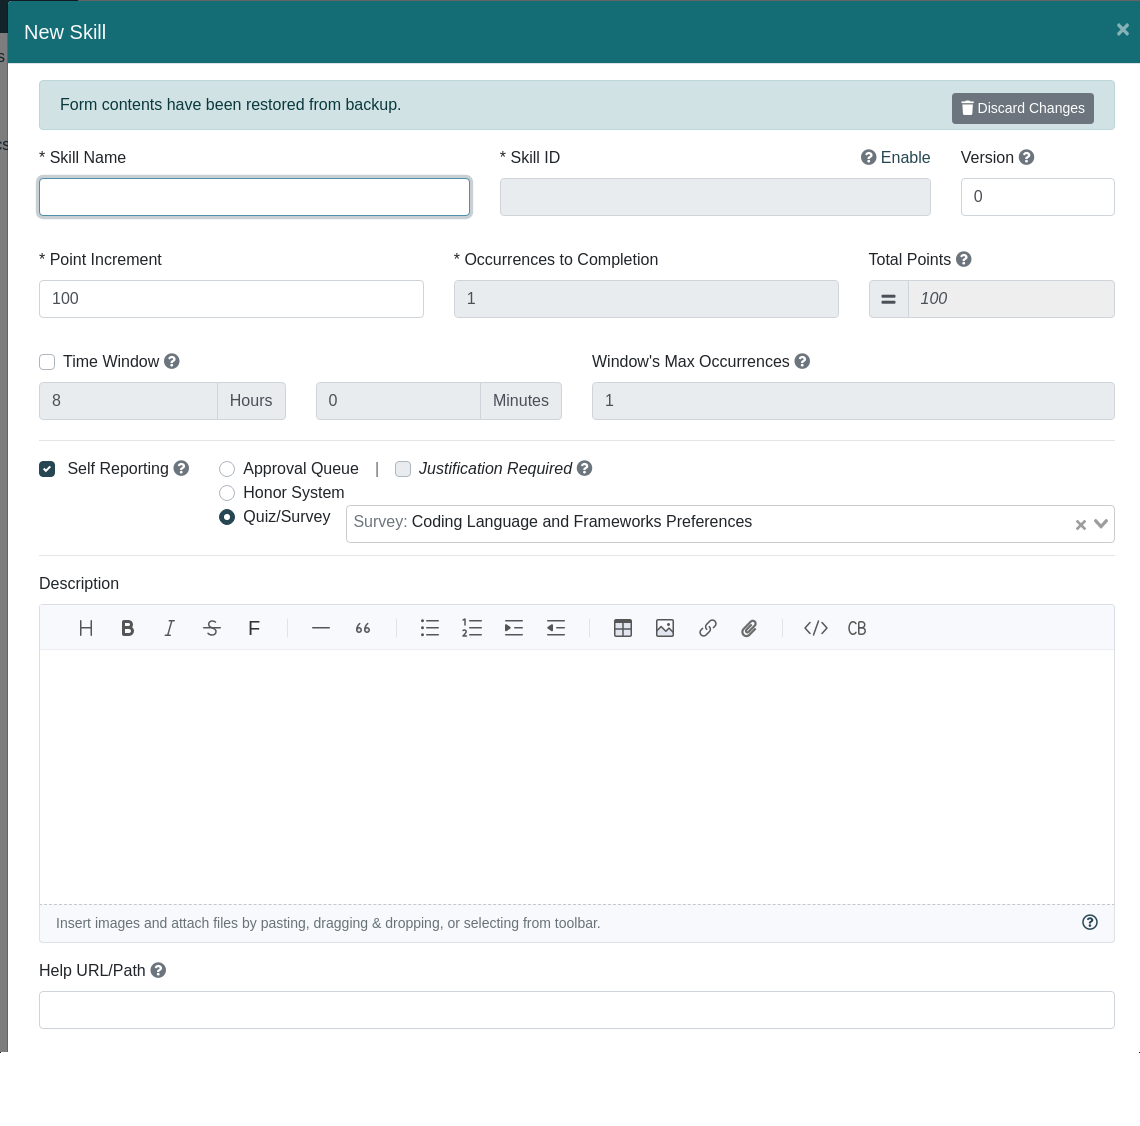
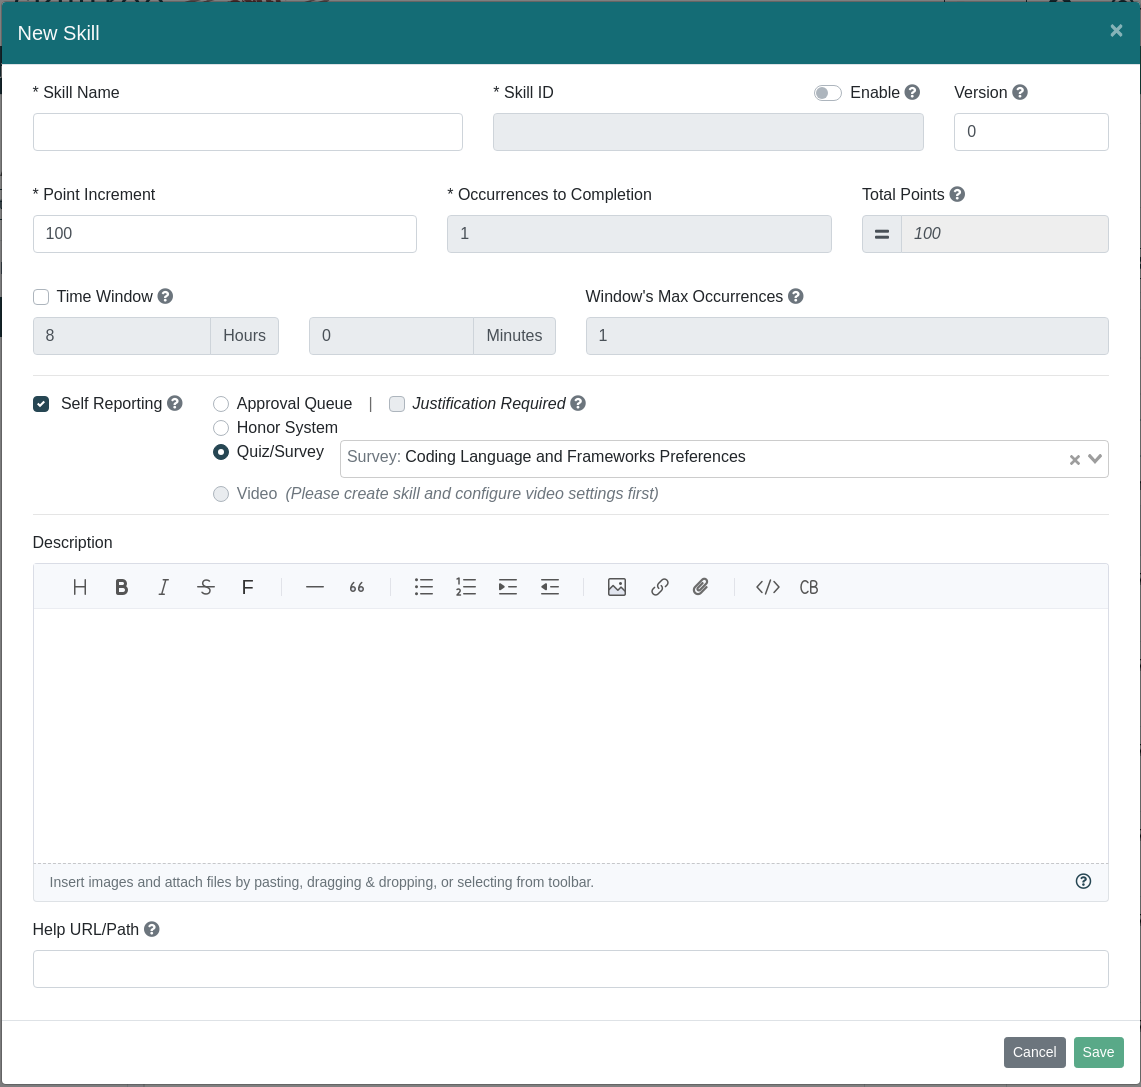
#264: document 2.8 release

diff --git a/docs/dashboard/user-guide/badges.md b/docs/dashboard/user-guide/badges.md
@@ -27,13 +27,24 @@ Creating badges is simple:
 1. After assigning skill dependencies to the badge, locate the badge in the ``Badges`` view and click the ``Go Live`` link on the bottom right of the Badge overview.
     - When the badge is published, any users with existing achievements that meet the badge requirements will be awarded the badge at that time.
  
-| Property | Explanation                                                                                                                                                                                                                                             | 
-|:------- |:--------------------------------------------------------------------------------------------------------------------------------------------------------------------------------------------------------------------------------------------------------| 
-| Badge Name | Display name of the badge                                                                                                                                                                                                                               |
-| Badge ID | The badge ID                                                                                                                                                                                                                                            |
-| [Description](/dashboard/user-guide/rich-text-editor.html) | *(Optional)* Description, can be used to describe how to achieve the badge or what it's significance is.                                                                                                                                                |
-| Help URL/Path | *(Optional)* URL pointing to a help article further documenting information about this badge. Please note that this property works in conjunction with the [Root Help Url](/dashboard/user-guide/projects.html#setting-root-help-url) project setting. You can also author external links into the description itself if more than one external resource needs to be linked to. |
-| Enable Gem Feature | *(Optional)* Enables the [Gem](#Gem) feature, allowing badges to be only available within a specific time window                                                                                                                                        
+| Property                                                   | Explanation                                                                                                                                                                                                                                                                                                                                                                     | 
+|:-----------------------------------------------------------|:--------------------------------------------------------------------------------------------------------------------------------------------------------------------------------------------------------------------------------------------------------------------------------------------------------------------------------------------------------------------------------| 
+| Badge Name                                                 | Display name of the badge                                                                                                                                                                                                                                                                                                                                                       |
+| Badge ID                                                   | The badge ID                                                                                                                                                                                                                                                                                                                                                                    |
+| [Description](/dashboard/user-guide/rich-text-editor.html) | *(Optional)* Description, can be used to describe how to achieve the badge or what it's significance is.                                                                                                                                                                                                                                                                        |
+| Help URL/Path                                              | *(Optional)* URL pointing to a help article further documenting information about this badge. Please note that this property works in conjunction with the [Root Help Url](/dashboard/user-guide/projects.html#setting-root-help-url) project setting. You can also author external links into the description itself if more than one external resource needs to be linked to. |
+| Enable Gem Feature                                         | *(Optional)* Enables the [Gem](#Gem) feature, allowing badges to be only available within a specific time window                                                                                                                                                                                                                                                                |
+| Bonus Award                                                | *(Optional)* Add a competitive edge by awarding special [Bonus Award](/dashboard/user-guide/badges.html#bonus-award) when trainees complete the badge within the configured time frame                                                                                                                                                                                          |  
+
+## Bonus Award
+
+Bonus Award adds a competitive edge by awarding a special badge token when trainees complete the badge within the configured time frame. 
+After enabling Bonus Award its name, icon and required time frame can be configured.  
+
+![Bonus Award Config](../../screenshots/admin/modal-new-badge-component-bonus-award.png)
+
+Once a trainee earns at least 1 point toward the badge they will be presented with an opportunity to earn this extra Bonus Award. 
+If a trainee completes the badge within the configured time frame the award will be earned, and it will be proudly shown on the badge card. 
 
 ## Gem
 

diff --git a/docs/dashboard/user-guide/skills.md b/docs/dashboard/user-guide/skills.md
@@ -53,6 +53,32 @@ You can also disable the Time Window property of a Skill, which will force each 
 - "Repetition is the mother of learning" - use the ``Occurrences to Completion`` property in conjunction with the [Time Window](/dashboard/user-guide/skills.html#time-window) property to balance between requiring repetition of an action and spacing out that repetition (for example, prevent users from spamming an action in one sitting to max out a Skill by setting a Time Window of 1-8 hours)
 - Help Url - configure the [Root Help Url](/dashboard/user-guide/projects.html#setting-root-help-url) for the project and then enter a path relative to that root. It will then be an easy change if the location of help articles changes. You can also author external links into the description itself if more than one external resource needs to be linked to.
 
+## Videos <since project="skills-service" version="2.8" />
+
+Externally hosted videos can be embedded into skill description and optionally configured to achieve that skill once the
+video is fully watched. To configure a video please navigate to `Project -> Subject -> Skill -> Video`   
+
+![Video Config Page](../../screenshots/admin/page-video-config.png)
+
+The only required field is `Video URL` that points to an externally hosted video (ex. `<url>.mp4`). 
+Once video is configured it will be presented on the training above the skill's description. 
+
+To make the video accessible the configuration offers ability to specify `Captions` and `Transcript` values.
+When captions are configured the video player will present an option to turn captions on or off.  
+Captions utilize [Web Video Text Tracks Format (WebVTT)](https://developer.mozilla.org/en-US/docs/Web/API/WebVTT_API) format 
+and its input form offers an ability to prefill an example in WebVTT format by clicking `Add Example` button above the `Captions` input field.  
+
+### Achieve Skill By Watching the Video 
+
+Once the video's settings are specified the skill can also be configured to be achieved after the trainee watched the entire video (>96%). 
+Video-based achievements are done using [Self Reporting](/dashboard/user-guide/self-reporting.html) mechanism and can be easily 
+selected by editing that skill and selecting `Video` Self Reporting type. 
+
+::: tip
+Please note that self reporting by watching the video completes the skill therefore when `Video` type is
+selected `Occurrences to Completion` are set to `1` and cannot be mutated.
+:::
+
 ## Copy Skill
 To use an existing Skill as a template for a new Skill, you can use the ![copy skill button](./screenshots/copy_btn.png) button available on a Skill row displayed on the Subject page.
 This will open a new Skill dialog populated with the details of the selected copy-from Skill. The name and id will be prepended with ``Copy of`` which can be changed
@@ -246,7 +272,7 @@ on the Action button located on the top-right above the skills' table. Select th
 All the skills under a subject or group can be easily selected via the ``Select All`` button
 :::
 
-## Skill Tags  <since project="skills-service" version="2.3" />
+## Skill Tags
 
 Skill tagging is a feature that allows administrators to add one or more custom "tags" to skills.
 Adding tags to skills can help to categorize and group skills, giving users another way to search or filter a particular set of skills.

diff --git a/docs/dashboard/user-guide/self-reporting.md b/docs/dashboard/user-guide/self-reporting.md
@@ -9,6 +9,7 @@ There are four ``Self report`` types available:
 1. [Approval Queue](/dashboard/user-guide/self-reporting.html#approval-queue) - request goes into the project's approval queue; project administrators can approve or deny requests.  Note When choosing Approval Queue, you may also choose to require users to submit a justification when self-reporting this skill by selecting the 'Justification Required' check box.
 1. [Quiz](/dashboard/user-guide/quizzes-and-surveys.html) - a knowledge check composed of multiple questions with a passing requirement; association of a Quiz requires successful passage of that Quiz in order to earn the skill and its points
 1. [Survey](/dashboard/user-guide/quizzes-and-surveys.html) - a method to get feedback about that skill or collect information related to the skill; association of a Survey requires completion of that Survey before skill and its points are awarded
+1. [Video](/dashboard/user-guide/skills.html#videos) - points are awarded after the configured video was fully watched 
 
 ::: tip 
 Project administrators can craft training profiles consisting of:
@@ -22,7 +23,7 @@ Project administrators can craft training profiles consisting of:
 Self reporting is enabled and configured for each skill individually. 
 When creating or editing a skill 
 1. select ``Self Reporting`` checkbox
-1. then select ``Self Reporting`` type (``Approval Queue``, ``Honor System`` or ``Quiz/Survey``)
+1. then select ``Self Reporting`` type (``Approval Queue``, ``Honor System``, ``Quiz/Survey`` or ``Video``)
 
 ![New Skill Modal Screenshot](../../screenshots/admin/modal-new-skill_self-report-checked.png)
 
@@ -45,6 +46,10 @@ earn the skill and its points
 - Please learn more in the [Quizzes and Surveys](/dashboard/user-guide/quizzes-and-surveys.html) section
 :::
 
+::: tip Video
+Please note that in order to select the `Video` type skill's [video settings](/dashboard/user-guide/skills.html#videos) must be configured.
+:::
+
 ## Skills Display
 
 Once Self Reporting is enabled for a skill, users will see a button on the Skills Display that will allow them to report the completion of that skill.
@@ -53,6 +58,9 @@ The button's label will depend on the Self Reporting type, below is an example w
 ![Skills with Self Reporting](../../screenshots/progress-and-ranking/client-display-skills-selfReport.png)
 
 Skills with Self Reporting can be accessed in the Skills Display component embedded within your application (via [Client Libraries](/skills-client/#client-display-integration)) 
+
+In case of Self Reporting type of `Video` the configured video is displayed above the description and once fully
+watched (>96%) then the skill and its points are awarded!  
 
 ::: tip IDEA
 You could create a project that consists purely of Self Reported skills! 

diff --git a/docs/release-notes/skills-service.md b/docs/release-notes/skills-service.md
@@ -8,6 +8,18 @@ To obtain deployable artifacts please visit [Distributions](/dashboard/install-g
 
 </conditional>
 
+## 2.8.0 <release-date date="July 2023" />
+- added ability to embed [training videos](/dashboard/user-guide/skills.html#videos) into skill's description
+- added ability to [achieve skill](/dashboard/user-guide/skills.html#achieve-skill-by-watching-the-video) based on watching embedded video
+- added [bonus award](/dashboard/user-guide/badges.html#bonus-award) feature to create more competitive aspect to badges
+
+## 2.7.2 <release-date date="July 2023" />
+- Spring Boot upgrade
+- Bug Fixes
+
+## 2.7.1 <release-date date="June 2023" />
+- Bug Fixes
+
 ## 2.7.0 <release-date date="June 2023" />
 - Ability to [add multiple skills to a Badge](/dashboard/user-guide/badges.html#adding-multiple-skill-to-a-badge) 
 - Implemented shortcuts for all the [Description Editor's](/dashboard/user-guide/rich-text-editor.html) features
@@ -61,16 +73,21 @@ To obtain deployable artifacts please visit [Distributions](/dashboard/install-g
 - Added ability to clear all the skill events for a user
   - The action effectively removes the user from that project and all of its views
 
-## 2.2.3 <release-date date="Nov. 2022" />
+
+## Release History
+
+### 2.2.X Releases
+
+#### 2.2.3 <release-date date="Nov. 2022" />
 - Big Fixes
 
-## 2.2.2 <release-date date="Nov. 2022" />
+#### 2.2.2 <release-date date="Nov. 2022" />
 - Big Fixes
 
-## 2.2.1 <release-date date="Nov. 2022" />
+#### 2.2.1 <release-date date="Nov. 2022" />
 - Upgrade Spring Boot
 
-## 2.2.0 <release-date date="Nov. 2022" />
+#### 2.2.0 <release-date date="Nov. 2022" />
 - Added a full-featured [Rich Text Editor](/dashboard/user-guide/rich-text-editor.html) to create and manage descriptions for skills, subjects, groups, badges and projects
   - Supports an array of features including headings, copy-and-paste, blockquotes, tables, links, and much more...
   - Supports inserting, uploading and copy-and-pasting images
@@ -86,8 +103,6 @@ To obtain deployable artifacts please visit [Distributions](/dashboard/install-g
   - show invites pending acceptance
   - allows to revoke, remind and extends invites 
 - Bug Fixes
-
-## Release History
 
 ### 2.1.X Releases
 

diff --git a/docs/dashboard/user-guide/projects.md b/docs/dashboard/user-guide/projects.md
@@ -67,7 +67,7 @@ designated as Project Administrators will continue to have access to the project
 There may be a delay of up to several minutes after changing a [Project Discoverability](/dashboard/user-guide/projects.html#setting-project-discoverability) from or to ``Private Invite Only`` before the change is reflected for all users.
 :::
 
-### Setting: Project Description <since project="skills-service" version="2.1" />
+### Setting: Project Description
 There are two possible values for the Project Description setting:
 
 1. Only show Project Description in Manager My Projects (default value)
@@ -167,7 +167,7 @@ Each email recipient receives a unique project invite code, therefore distributi
 To invite users to join a ``Private Invite Only`` project, the SkillTree instance MUST be configured to support email. Please see [Email Server Settings](/dashboard/user-guide/settings.html#email-settings) for more information.
 :::
 
-##### Manage Invites Pending Acceptance <since project="skills-service" version="2.2" />
+##### Manage Invites Pending Acceptance
 Once Project Invites have been sent to users, any invites that have not yet been accepted or invites that have recently expired can be managed through the ```Invites Pending Acceptance``` table below the ```Invite Users``` form. 
 
 ![Project Access](./screenshots/Component-Private-Project-Pending.png)

diff --git a/docs/dashboard/user-guide/quizzes-and-surveys.md b/docs/dashboard/user-guide/quizzes-and-surveys.md
@@ -1,4 +1,4 @@
-# Quizzes and Surveys <since project="skills-service" version="2.4" />
+# Quizzes and Surveys
 
 Quizzes and Surveys can be created and managed on the administrative side of the SkillTree Dashboard
 and seamlessly administered by associating them to [Skills](/dashboard/user-guide/self-reporting.html) or running them independently.
